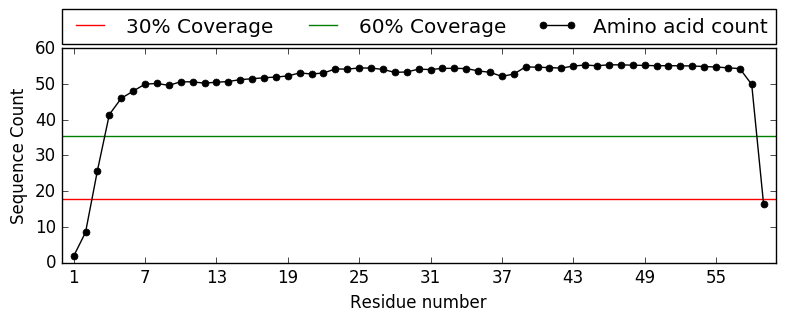
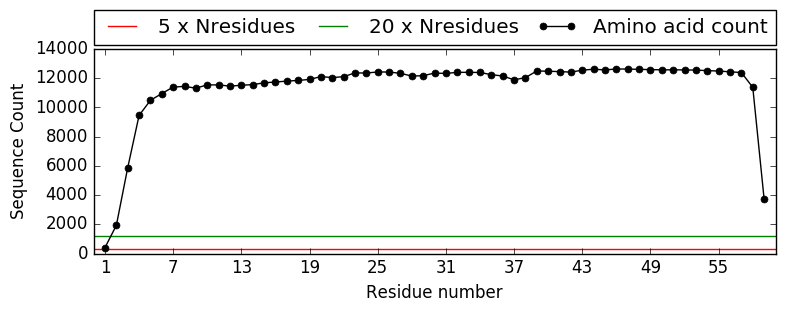
aspect ratio fix implemented to recompute the correct aspect ratio based on xlim and ylim data

Changed region(s): [[0.0, 0.0, 1.0, 0.9808], [0.9783, 0.6923, 1.0, 0.7212]]

diff --git a/conkit/plot/SequenceCoveragePlot.py b/conkit/plot/SequenceCoveragePlot.py
@@ -91,16 +91,17 @@ class SequenceCoverageFigure(Figure):
         """Draw the actual plot"""
 
         residues = numpy.arange(1, self._hierarchy.top_sequence.seq_len + 1)
-        aa_frequencies = numpy.asarray(self._hierarchy.calculate_freq()) * self._hierarchy.top_sequence.seq_len
+        aa_counts = numpy.asarray(self._hierarchy.calculate_freq()) * self._hierarchy.nseqs
 
         fig, ax = matplotlib.pyplot.subplots(dpi=self.dpi)
 
-        ax.axhline(self._hierarchy.top_sequence.seq_len * 0.3, color='r', label='30% Coverage')
-        ax.axhline(self._hierarchy.top_sequence.seq_len * 0.6, color='g', label='60% Coverage')
+        # Add lines as quality indicators
+        ax.axhline(self._hierarchy.top_sequence.seq_len * 5, color='r', label='5 x Nresidues')
+        if any(x > self._hierarchy.top_sequence.seq_len * 20 for x in aa_counts):
+            ax.axhline(self._hierarchy.top_sequence.seq_len * 20, color='g', label='20 x Nresidues')
 
-        ax.plot(residues, aa_frequencies, color='#000000', marker='o', linestyle='-',
+        ax.plot(residues, aa_counts, color='#000000', marker='o', linestyle='-',
                 markersize=5, label='Amino acid count')
-
 
         # Prettify the plot
         step = int((self._hierarchy.top_sequence.seq_len + 1) / 10)
@@ -113,7 +114,8 @@ class SequenceCoverageFigure(Figure):
         ax.legend(bbox_to_anchor=(0., 1.02, 1., .102), loc=3, ncol=3, mode="expand", borderaxespad=0.)
 
         # Make axes length proportional and remove whitespace around the plot
-        ax.set(aspect=0.3)
+        aspectratio = Figure._correct_aspect(ax, 0.3)
+        ax.set(aspect=aspectratio)
         fig.tight_layout()
 
         fig.savefig(self.file_name, bbox_inches='tight')

diff --git a/conkit/plot/_Figure.py b/conkit/plot/_Figure.py
@@ -133,3 +133,11 @@ class Figure(object):
             raise ValueError("Type {0} is unknown".format(t))
         elif not isinstance(h, dict[t]):
             raise TypeError("Provided hierarchy is not a {0}".format(t))
+
+    @staticmethod
+    def _correct_aspect(ax, aspectratio):
+        """Adjust the aspect ratio"""
+        # Credits to http://stackoverflow.com/q/4747051/3046533
+        #     !!! Works only for non-logarithmic axes !!!
+        ratio_default = (ax.get_xlim()[1] - ax.get_xlim()[0]) / (ax.get_ylim()[1] - ax.get_ylim()[0])
+        return float(ratio_default * aspectratio)

diff --git a/conkit/plot/PrecisionEvaluationPlot.py b/conkit/plot/PrecisionEvaluationPlot.py
@@ -177,6 +177,8 @@ class PrecisionEvaluationFigure(Figure):
         ax.legend(bbox_to_anchor=(0., 1.02, 1., .102), loc=3, ncol=3, mode="expand", borderaxespad=0.)
 
         # Make axes length proportional and remove whitespace around the plot
+        aspectratio = Figure._correct_aspect(ax, 0.3)
+        ax.set(aspect=aspectratio)
         fig.tight_layout()
 
         fig.savefig(self.file_name, bbox_inches='tight')

diff --git a/conkit/plot/ContactMapPlot.py b/conkit/plot/ContactMapPlot.py
@@ -219,7 +219,8 @@ class ContactMapFigure(Figure):
                   loc=3, ncol=3, mode="expand", borderaxespad=0.)
 
         # Make both axes identical in length and remove whitespace around the plot
-        ax.set(aspect=1.0)
+        aspectratio = Figure._correct_aspect(ax, 1.0)
+        ax.set(aspect=aspectratio)
         fig.tight_layout()
 
         fig.savefig(self.file_name, bbox_inches='tight')
